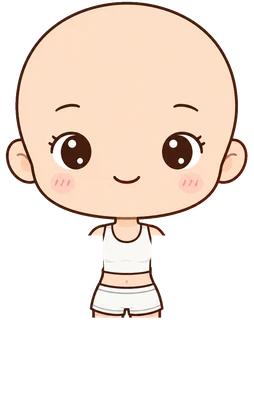
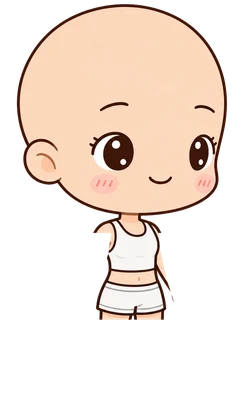
Doll character in three-quarter view: legs stride, arms swing forward and back
- Replace the front-facing doll with a three-quarter view facing
  down-right; walking left mirrors it
- Near and far arms and legs are separate layers; legs stride forward
  and back, the near arm swings in front of the body and the far arm
  behind it so no gaps show
- Long hair, bob and bald; tee or sportswear. Outfits are aligned to
  the base by the legs and keep the base head so hair lines up
- art/tools/doll34.py builds the layers; the old front pipeline only
  writes to a preview folder now; cache v34

Claude-Session: https://claude.ai/code/session_01HNLjjDhwiWZnZmJhscAi2v

diff --git a/public/room.js b/public/room.js
@@ -15,7 +15,7 @@ const STYLE_LOOKS = {
     cloth: [['tee', 'T 恤'], ['hoodie', '帽 T'], ['', '運動服']],
   },
   doll: {
-    hair: [['long', '長直髮'], ['', '光頭']],
+    hair: [['long', '長直髮'], ['bob', '鮑伯頭'], ['', '光頭']],
     cloth: [['tee', 'T 恤'], ['', '運動服']],
   },
 };
@@ -39,14 +39,16 @@ export const faceFor = (emo) => EMO_FACE[emo] || 'smile';
 // 小人的圖層（後髮 → 身體 → 衣服 → 五官 → 前髮 → 表情符號）；每張 267×420，腳底在 (108.8, 418.6)
 const CHAR_W = 267, CHAR_H = 420, FOOT = [108.8, 418.6];
 const SYM = { angry: true };
-// 復古娃娃：每張 254×420，腳底在 (126.5, 419.7)；手腳繞關節轉（art/tools/doll.py 印出來的數字）
-const DOLL_W = 254, DOLL_H = 420, DOLL_FOOT = [126.5, 419.7];
-const DOLL_JOINTS = { arm_l: [99.6, 236.9], arm_r: [153.4, 236.9], leg_l: [110.1, 306.8], leg_r: [142.9, 306.8] };
-const DOLL_FACES = new Set(['happy']); // 微笑畫在身體上，其他表情是另外一層
+// 復古娃娃（四分之三側面，臉朝畫面右下；往左走就整個翻面）：每張 242×420，腳底在 (129.5, 418.6)
+// n＝靠近我們的那側（畫面左），f＝遠的那側；手腳繞關節轉（art/tools/doll34.py 印出來的數字）
+const DOLL_W = 242, DOLL_H = 420, DOLL_FOOT = [129.5, 418.6];
+const DOLL_JOINTS = { arm_n: [105.9, 232.6], arm_f: [155.9, 236.0], leg_n: [115.6, 296.8], leg_f: [150.3, 296.8] };
+const DOLL_FACES = new Set(); // 這一版沒有表情，臉畫在身體上
 const dollFace = (face) => (DOLL_FACES.has(face) ? `face_${face}` : null);
+// 疊的順序：後髮 → 遠手 → 遠腳 → 近腳 → 身體 → 表情 → 前髮 → 近手
 const dollParts = (hair, cloth, face) => {
   const c = cloth ? `_${cloth}` : '';
-  return [hair && `hair_${hair}_back`, `arm_l${c}`, `arm_r${c}`, `leg_l${c}`, `leg_r${c}`, `body${c}`, dollFace(face), hair && `hair_${hair}_front`];
+  return [hair && `hair_${hair}_back`, `arm_f${c}`, `leg_f${c}`, `leg_n${c}`, `body${c}`, dollFace(face), hair && `hair_${hair}_front`, `arm_n${c}`];
 };
 export function lookLayers(look, face = 'smile') {
   const l = normalizeLook(look);
@@ -146,12 +148,15 @@ export class Room {
     this.dollHair = {};
     this.joints = {};
     const dollImg = (name, parent) => el('image', { href: `${BASE}doll/${name}.webp`, width: DOLL_W, height: DOLL_H }, parent);
-    this.dollHair.back = dollImg('hair_long_back', this.doll);
+    const joint = (j) => { this.joints[j] = el('g', { class: `doll-${j}` }, this.doll); this.dollBody[j] = dollImg(j, this.joints[j]); };
     this.dollBody = {};
-    for (const j of ['arm_l', 'arm_r', 'leg_l', 'leg_r']) { this.joints[j] = el('g', { class: `doll-${j}` }, this.doll); this.dollBody[j] = dollImg(j, this.joints[j]); }
+    this.dollHair.back = dollImg('hair_long_back', this.doll);
+    joint('arm_f'); joint('leg_f'); joint('leg_n');
     this.dollBody.body = dollImg('body', this.doll);
-    this.dollFace = dollImg('face_happy', this.doll);
+    this.dollFace = dollImg('body', this.doll);
+    this.dollFace.style.display = 'none';
     this.dollHair.front = dollImg('hair_long_front', this.doll);
+    joint('arm_n');
     this.stride = 0;
     // 泡泡（HTML，字比較清楚）
     this.bubble = document.createElement('div');
@@ -244,16 +249,17 @@ export class Room {
     }
     if (me.path.length) { this.raf = requestAnimationFrame((t) => this.tick(t)); return; }
     this.raf = 0;
-    this.stride = 0; this.swing(0);
+    this.stride = 0; this.swing(0, false);
     this.pose.setAttribute('class', 'idle');
     this.markers.replaceChildren();
     const f = me.then; me.then = null; if (f) f();
   }
-  // 復古娃娃走路：手和腳一起左右擺（正面看的走法），停下來就回到站姿
-  swing(dt) {
-    this.stride += dt * 2.9;
+  // 復古娃娃走路：腳前後跨步；手只往不會露出縫的方向擺（近手往前蓋過身體、遠手往後躲到身體後面）
+  // 停下來（walking＝false）就回到站姿
+  swing(dt, walking = true) {
+    this.stride += dt * 2.6;
     const s = Math.sin(this.stride * 2 * Math.PI);
-    const ang = { arm_l: -14 * s, arm_r: -14 * s, leg_l: 9 * s, leg_r: 9 * s };
+    const ang = walking ? { leg_n: -15 * s, leg_f: 15 * s, arm_n: -9 * (1 - s), arm_f: 8 * (1 - s) } : { leg_n: 0, leg_f: 0, arm_n: 0, arm_f: 0 };
     for (const [j, g] of Object.entries(this.joints)) {
       const [x, y] = DOLL_JOINTS[j];
       g.setAttribute('transform', `rotate(${ang[j].toFixed(2)} ${x} ${y})`);

diff --git a/public/sw.js b/public/sw.js
@@ -1,5 +1,5 @@
 // 改了任何檔案就把版本號 +1，舊快取才會被清掉
-const CACHE = 'lifelog-v33';
+const CACHE = 'lifelog-v34';
 const ASSETS = [
   './',
   './privacy',
@@ -36,19 +36,20 @@ const ASSETS = [
   './room/char/hair_ponytail_back.webp',
   './room/char/hair_ponytail_front.webp',
   './room/char/sym_angry.webp',
-  './room/doll/arm_l.webp',
-  './room/doll/arm_r.webp',
+  './room/doll/arm_f.webp',
+  './room/doll/arm_f_tee.webp',
+  './room/doll/arm_n.webp',
+  './room/doll/arm_n_tee.webp',
   './room/doll/body.webp',
+  './room/doll/body_tee.webp',
+  './room/doll/hair_bob_back.webp',
+  './room/doll/hair_bob_front.webp',
   './room/doll/hair_long_back.webp',
   './room/doll/hair_long_front.webp',
-  './room/doll/leg_l.webp',
-  './room/doll/leg_r.webp',
-  './room/doll/arm_l_tee.webp',
-  './room/doll/arm_r_tee.webp',
-  './room/doll/body_tee.webp',
-  './room/doll/leg_l_tee.webp',
-  './room/doll/leg_r_tee.webp',
-  './room/doll/face_happy.webp',
+  './room/doll/leg_f.webp',
+  './room/doll/leg_f_tee.webp',
+  './room/doll/leg_n.webp',
+  './room/doll/leg_n_tee.webp',
   './manifest.webmanifest',
   './icons/icon-192.png',
   './icons/icon-512.png',

diff --git a/art/tools/doll34.py b/art/tools/doll34.py
@@ -1,0 +1,116 @@
+# 復古娃娃・四分之三側面（臉朝畫面右下）：切成身體＋頭、近手、遠手、近腳、遠腳，App 走路時手腳前後擺
+#   source/doll34_base.webp          光頭素體（四分之三側面）
+#   source/doll34_hair_<名稱>.webp   素體＋髮型（同一張畫布）
+#   source/doll34_cloth_<名稱>.webp  素體穿衣服：只取脖子以下，頭一律用素體的（頭髮是畫在素體上的，才對得齊）
+# 輸出 ../public/room/doll/*.webp，並印出 room.js 要用的尺寸、腳底、關節位置
+import os, glob
+os.chdir(os.path.join(os.path.dirname(os.path.abspath(__file__)), '..'))
+from PIL import Image, ImageDraw
+import numpy as np
+from scipy import ndimage
+
+def load(p):
+    a = np.array(Image.open(p).convert('RGBA')).astype(float)
+    a[:, :, 3] = np.where(a[:, :, 3] > 240, 255, a[:, :, 3]); return a
+B = load('source/doll34_base.webp')
+H, W = B.shape[:2]
+yy = np.arange(H)[:, None]; xx = np.arange(W)[None, :]
+ma = B[:, :, 3] > 20
+NECK = 645   # 下巴線：以上是頭
+
+def poly(pts):
+    im = Image.new('L', (W, H), 0); ImageDraw.Draw(im).polygon([(x + 400, y + 620) for x, y in pts], fill=1); return np.array(im) > 0
+ARM_N = poly([(190, 30), (178, 130), (150, 205), (110, 310), (-60, 310), (-60, 200), (120, 25)])   # 近的手（畫面左）
+ARM_F = poly([(318, 25), (328, 120), (345, 200), (380, 310), (520, 310), (520, 200), (370, 25)])   # 遠的手（畫面右）
+
+def layer(src, m):
+    o = src.copy(); o[:, :, 3] *= ndimage.gaussian_filter(m.astype(float), .6); return Image.fromarray(o.astype(np.uint8))
+
+def cut(C):
+    m = C[:, :, 3] > 20
+    an, af = ARM_N & m, ARM_F & m
+    legs = m & ~(an | af) & (yy > 880)
+    ln, lf = legs & (xx < 650), legs & (xx >= 650)
+    body = m & ~((an | af) & (yy > 690)) & ~(legs & (yy > 940))
+    return {'body': layer(C, body), 'arm_n': layer(C, an), 'arm_f': layer(C, af), 'leg_n': layer(C, ln), 'leg_f': layer(C, lf)}, an | af
+
+def shift_to_base(C):
+    """衣服圖用腿和鞋對齊素體（AI 重畫時整個人常常偏幾 px）"""
+    T = C[:, :, 3] > 128; ref = ma[960:1245]; best = None
+    for dx in range(-20, 21):
+        for dy in range(-20, 21):
+            v = (np.roll(np.roll(T, dy, 0), dx, 1)[960:1245] != ref).sum()
+            if best is None or v < best[0]: best = (v, dx, dy)
+    return np.roll(np.roll(C, best[2], 0), best[1], 1), best[1:]
+
+def with_base_head(C):
+    """脖子以下用衣服圖，頭用素體的；接縫在脖子，用 8px 漸層接起來"""
+    w = np.clip((yy - (NECK - 8)) / 16, 0, 1) * np.ones((1, W))
+    w = np.where(ma & (yy < NECK + 8), w, 1.0)          # 素體頭以外照用衣服圖
+    w = np.where(yy < NECK - 8, np.where(ma, 0.0, 1.0), w)
+    out = C.copy()
+    hb = B.copy()
+    for k in range(3): out[:, :, k] = C[:, :, k] * w + hb[:, :, k] * (1 - w)
+    out[:, :, 3] = np.where(yy < NECK - 8, np.where(ma, B[:, :, 3], 0), C[:, :, 3] * w + B[:, :, 3] * (1 - w))
+    return out
+
+layers = {}
+parts, arms = cut(B)
+layers.update(parts)
+for f in sorted(glob.glob('source/doll34_cloth_*.webp')):
+    name = f.split('doll34_cloth_')[1][:-5]
+    C, off = shift_to_base(load(f)); print(name, 'offset', off)
+    for k, im in cut(with_base_head(C))[0].items(): layers[f'{k}_{name}'] = im
+
+# 頭髮：身體外面的放最後面，蓋在頭上的（瀏海、側髮）放前面；臉（瀏海以下）留給身體
+yx = np.mgrid[:H, :W]
+face = (((yx[1] - 715) / 190) ** 2 + ((yx[0] - 490) / 125) ** 2 <= 1) & (yx[0] > 405) & (yx[1] < 885)
+arms_d = ndimage.binary_dilation(arms, iterations=10)
+for f in sorted(glob.glob('source/doll34_hair_*.webp')):
+    name = f.split('doll34_hair_')[1][:-5]
+    Hh = load(f); la = Hh[:, :, 3] > 20
+    diff = np.abs(Hh[:, :, :3] - B[:, :, :3]).sum(2)
+    back = la & ~ndimage.binary_dilation(ma, iterations=3) & (yy < 1000)
+    back = ndimage.binary_opening(back, iterations=2)
+    lab, n = ndimage.label(back); sz = ndimage.sum(back, lab, range(1, n + 1)); back = np.isin(lab, np.where(sz > 800)[0] + 1)
+    # 頭髮緊貼身體輪廓的地方，把剛剛 dilation 去掉的那圈補回來
+    back |= la & ndimage.binary_dilation(back, iterations=3) & ~ma & (diff > 60)
+    front = la & ma & (ndimage.uniform_filter(diff, 5) > 60) & (yy < NECK + 40) & ~face
+    front = ndimage.binary_opening(front, iterations=1)
+    hb = Hh.copy()
+    # 手擺開時會露出手後面的頭髮：用頭髮的底色補（只補在頭髮範圍內）
+    span = np.zeros_like(back)
+    for y in range(NECK - 20, 1000):
+        xs = np.where(back[y])[0]
+        if len(xs): span[y, xs.min():xs.max() + 1] = True
+    bottom = np.full(W, -1)
+    for x in range(W):
+        ys = np.where(back[:, x])[0]
+        if len(ys): bottom[x] = ys.max()
+    ok = bottom >= 0
+    if ok.any():
+        bot = np.interp(np.arange(W), np.arange(W)[ok], bottom[ok])
+        hole = arms_d & span & ~back & (yy <= bot[None, :])
+        base = np.median(Hh[back & (Hh[:, :, :3].sum(2) < 200)][:, :3], axis=0) if (back & (Hh[:, :, :3].sum(2) < 200)).any() else [45, 38, 36]
+        hb[hole, :3] = base; hb[hole, 3] = 255
+        back |= hole
+    hb[:, :, 3] *= back
+    layers[f'hair_{name}_back'] = Image.fromarray(hb.astype(np.uint8))
+    hf = Hh.copy(); hf[:, :, 3] *= ndimage.gaussian_filter(front.astype(float), .6)
+    layers[f'hair_{name}_front'] = Image.fromarray(hf.astype(np.uint8))
+
+PIV = {'arm_n': (572, 690), 'arm_f': (716, 700), 'leg_n': (600, 875), 'leg_f': (700, 875)}
+FOOT = (640, 1226)
+bb = None
+for im in layers.values():
+    ys, xs = np.where(np.array(im)[:, :, 3] > 10)
+    box = (xs.min(), ys.min(), xs.max() + 1, ys.max() + 1)
+    bb = box if bb is None else (min(bb[0], box[0]), min(bb[1], box[1]), max(bb[2], box[2]), max(bb[3], box[3]))
+OUT_H = 420; k = OUT_H / (bb[3] - bb[1]); OUT_W = round((bb[2] - bb[0]) * k)
+OUT = '../public/room/doll'; os.makedirs(OUT, exist_ok=True)
+for f in glob.glob(f'{OUT}/*.webp'): os.remove(f)
+for name, im in layers.items():
+    im.crop(bb).resize((OUT_W, OUT_H), Image.LANCZOS).save(f'{OUT}/{name}.webp', 'WEBP', quality=90)
+t = lambda p: [round((p[0] - bb[0]) * k, 1), round((p[1] - bb[1]) * k, 1)]
+print('layers', sorted(layers))
+print('size', OUT_W, OUT_H, 'foot', t(FOOT), 'pivots', {n: t(p) for n, p in PIV.items()})

diff --git a/art/tools/doll.py b/art/tools/doll.py
@@ -1,3 +1,4 @@
+# 【舊版・正正面】現在 App 用的是 doll34.py（四分之三側面）；這支只輸出到 preview/doll_front 留作參考
 # 復古娃娃（會走路的版本）：把素體切成 身體＋頭、左右手、左右腳，App 走路時讓手腳繞關節擺動
 #   source/doll_base.webp            光頭素體（手臂離開身體、兩腿分開）
 #   source/doll_hair_long.webp       同一張圖＋長直髮
@@ -100,7 +101,7 @@ for im in layers.values():
     box = (xs.min(), ys.min(), xs.max() + 1, ys.max() + 1)
     bb = box if bb is None else (min(bb[0], box[0]), min(bb[1], box[1]), max(bb[2], box[2]), max(bb[3], box[3]))
 OUT_H = 420; k = OUT_H / (bb[3] - bb[1]); OUT_W = round((bb[2] - bb[0]) * k)
-OUT = '../public/room/doll'; os.makedirs(OUT, exist_ok=True)
+OUT = 'preview/doll_front'; os.makedirs(OUT, exist_ok=True)
 for name, im in layers.items():
     im.crop(bb).resize((OUT_W, OUT_H), Image.LANCZOS).save(f'{OUT}/{name}.webp', 'WEBP', quality=90)
 t = lambda p: [round((p[0] - bb[0]) * k, 1), round((p[1] - bb[1]) * k, 1)]

diff --git a/CLAUDE.md b/CLAUDE.md
@@ -98,12 +98,14 @@ tests/             Playwright 端對端測試
   - 髮型：`ponytail` 或 ''（短髮＝素體本身）；
   - 衣服：`tee`、`hoodie` 或 ''。
 - `style` 有兩種角色：`classic`（經典，預設）和 `doll`（復古娃娃）。`looksFor(style)` 回傳該角色可選的髮型和衣服。
-- **復古娃娃**（`public/room/doll/`，由 `art/tools/doll.py` 產生）：
-  - 切成身體＋頭、左右手、左右腳，加上前後髮；
-  - 走路時 `Room.swing()` 每一幀讓手腳繞關節 `DOLL_JOINTS` 轉（用 SVG transform 屬性，不靠 CSS，iPhone 也穩）；
-  - 衣服：每件衣服是一整張「光頭素體穿衣服」的圖，切成自己的身體和手腳（`body_tee`、`arm_l_tee`…）；
-  - 表情：微笑畫在身體上；其他表情只取臉的橢圓範圍，疊在身體和前髮之間（`face_happy`）；
-  - 目前有：長直髮／光頭、T 恤／運動服、微笑／高興。
+- **復古娃娃**（`public/room/doll/`，由 `art/tools/doll34.py` 產生）：
+  - **四分之三側面**（臉朝畫面右下），往左走時整個左右翻面；
+  - 切成身體＋頭、近手 `arm_n`、遠手 `arm_f`、近腳 `leg_n`、遠腳 `leg_f`，加上前後髮；
+  - 疊的順序：後髮 → 遠手 → 遠腳 → 近腳 → 身體 → 前髮 → 近手；
+  - 走路時 `Room.swing()` 每一幀讓手腳繞關節 `DOLL_JOINTS` 轉（用 SVG transform 屬性，不靠 CSS，iPhone 也穩）：腳前後跨步，近手往前、遠手往後（另一個方向會露出縫）；
+  - 衣服：一整張「光頭素體穿衣服」的圖，先用腿和鞋對齊素體，只取脖子以下，頭一律用素體的（頭髮才對得齊）；
+  - 目前有：女生、長直髮／鮑伯頭／光頭、T 恤／運動服；這一版沒有表情；
+  - 男生素體 `art/source/doll34_boy_base.webp` 已有，髮型和衣服等使用者生成。
 - 表情由心情決定（經典角色）：`faceFor(emo)` 把 happy/excited/love/moved 對到 `happy`、angry 對到 `angry`、其他對到 `smile`。
 - 圖層順序：`hair_*_back → body → cloth → face → hair_*_front → sym_*`。
 - 圖層尺寸是 267×420，腳底在 (108.8, 418.6)。

diff --git a/art/README.md b/art/README.md
@@ -88,3 +88,22 @@ python3 tools/doll.py   # → ../public/room/doll/*.webp，並印出尺寸、腳
 - 若印出的數字變了，要同步改 `room.js` 的 `DOLL_W`、`DOLL_H`、`DOLL_FOOT`、`DOLL_JOINTS`。
 - 新的長髮型（長過肩膀）需要兩張圖：一般姿勢一張，雙手平舉的 T 字版一張。短髮只要一張。
 - 衣服要用光頭素體生成，袖子只包住手臂、褲管不要蓋住兩腿之間的空隙，之後才能切成手腳。
+
+## 復古娃娃・四分之三側面（App 現在用的版本）
+
+| 檔案 | 用途 |
+|---|---|
+| `doll34_base.webp` | 女生光頭素體，四分之三側面（臉朝畫面右下） |
+| `doll34_hair_<名稱>.webp` | 素體＋髮型（`long` 長直髮、`bob` 鮑伯頭） |
+| `doll34_cloth_<名稱>.webp` | 素體穿衣服（`tee`） |
+| `ref_doll_front_*.webp` | 同一套髮型、衣服的正面設計圖，給 AI 當參考 |
+
+```bash
+python3 tools/doll34.py   # → ../public/room/doll/*.webp（會先清空），並印出尺寸、腳底、關節位置
+```
+
+- 生成方式：附「四分之三素體」＋「正面設計圖」兩張，要 AI 照正面設計畫成側面角度。
+- 衣服圖的頭常常和素體差幾 px，所以只取脖子以下（`NECK`），頭用素體的。
+- 長髮沒有 T 字版時，手擺開露出來的頭髮用髮色補。
+- 新的髮型、衣服：照檔名放進 `source/`，執行 `doll34.py`，再把名稱加進 `room.js` 的 `STYLE_LOOKS.doll` 和 `sw.js`。
+- 舊的正正面版本（`doll.py`）只輸出到 `preview/doll_front` 留作參考。
